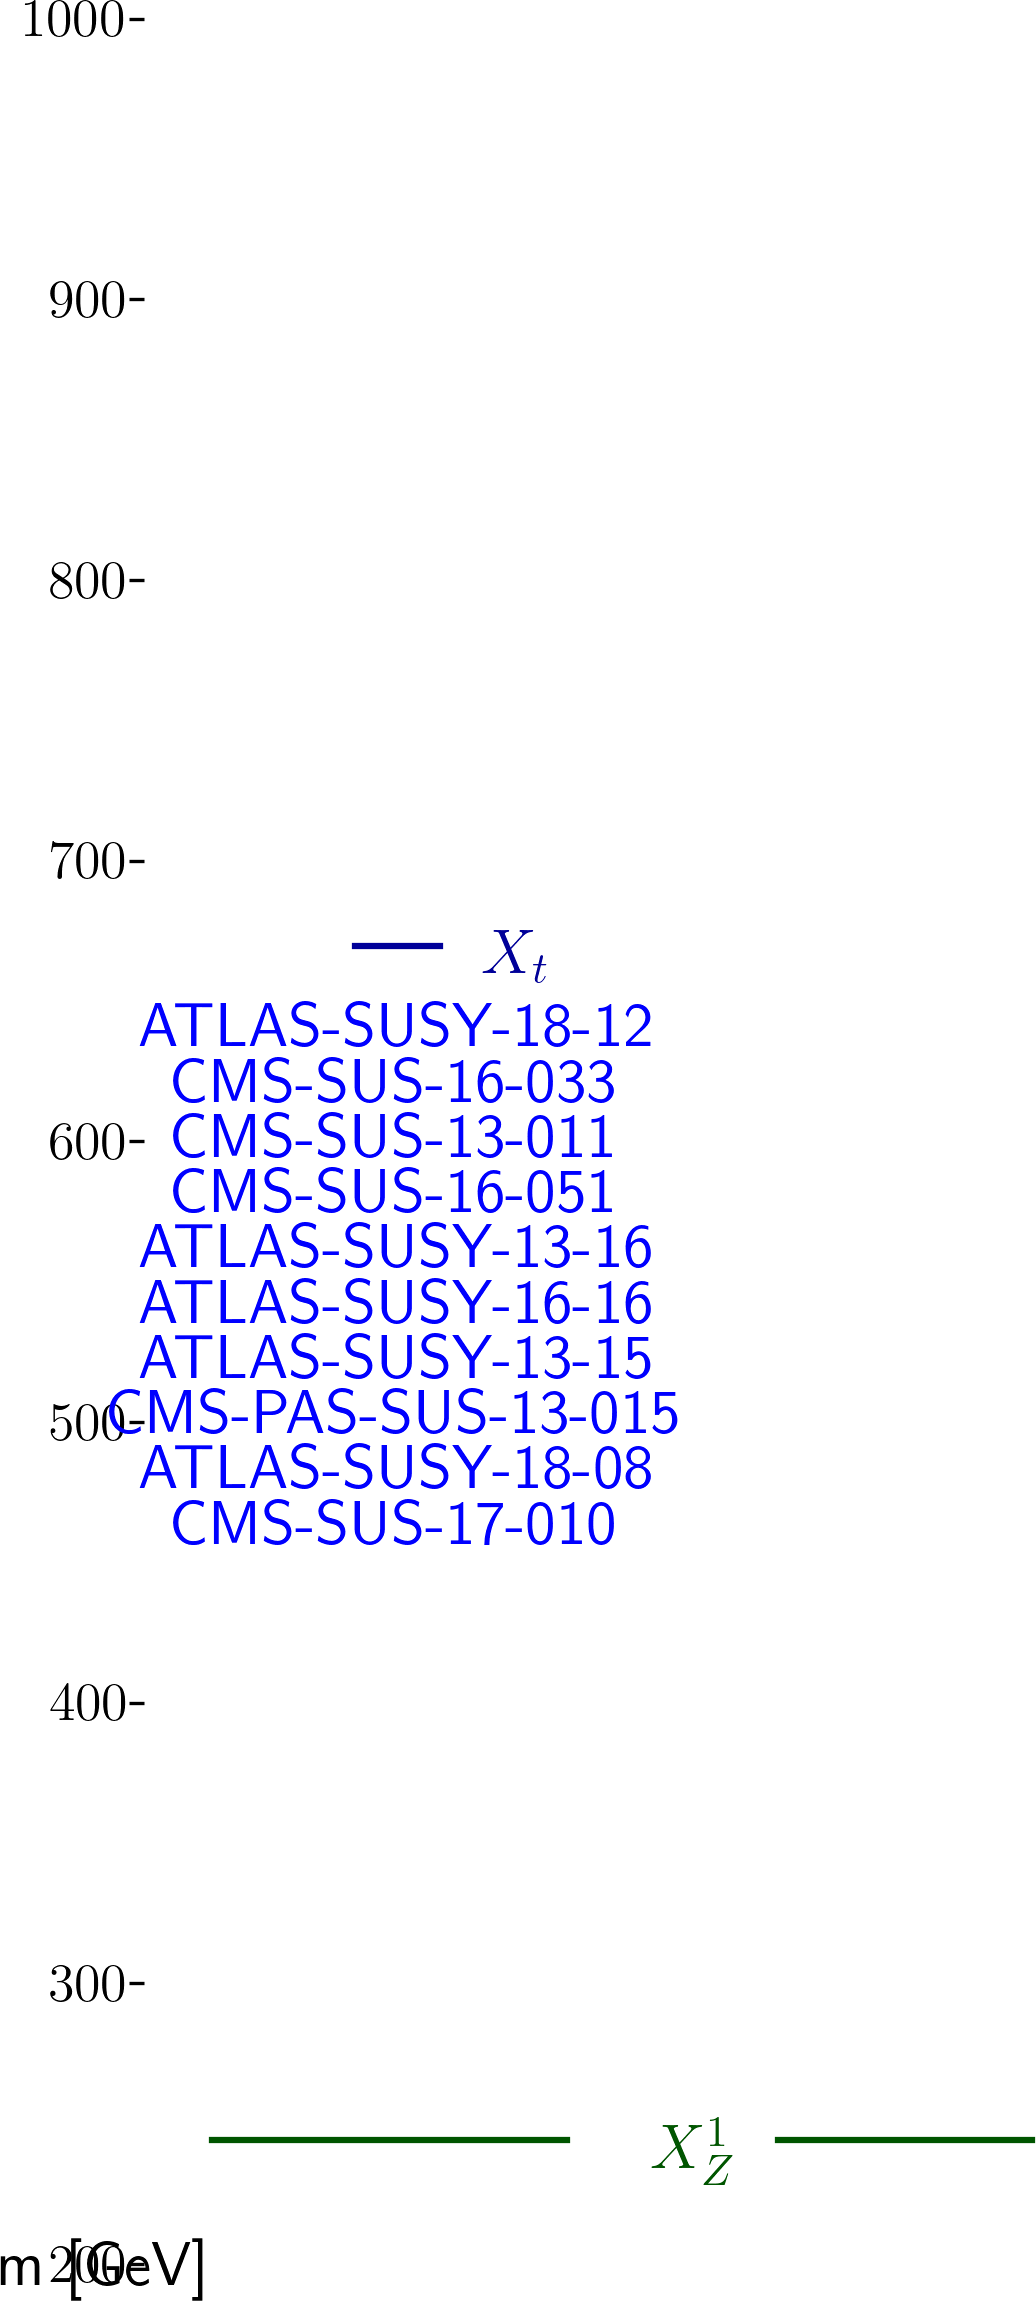
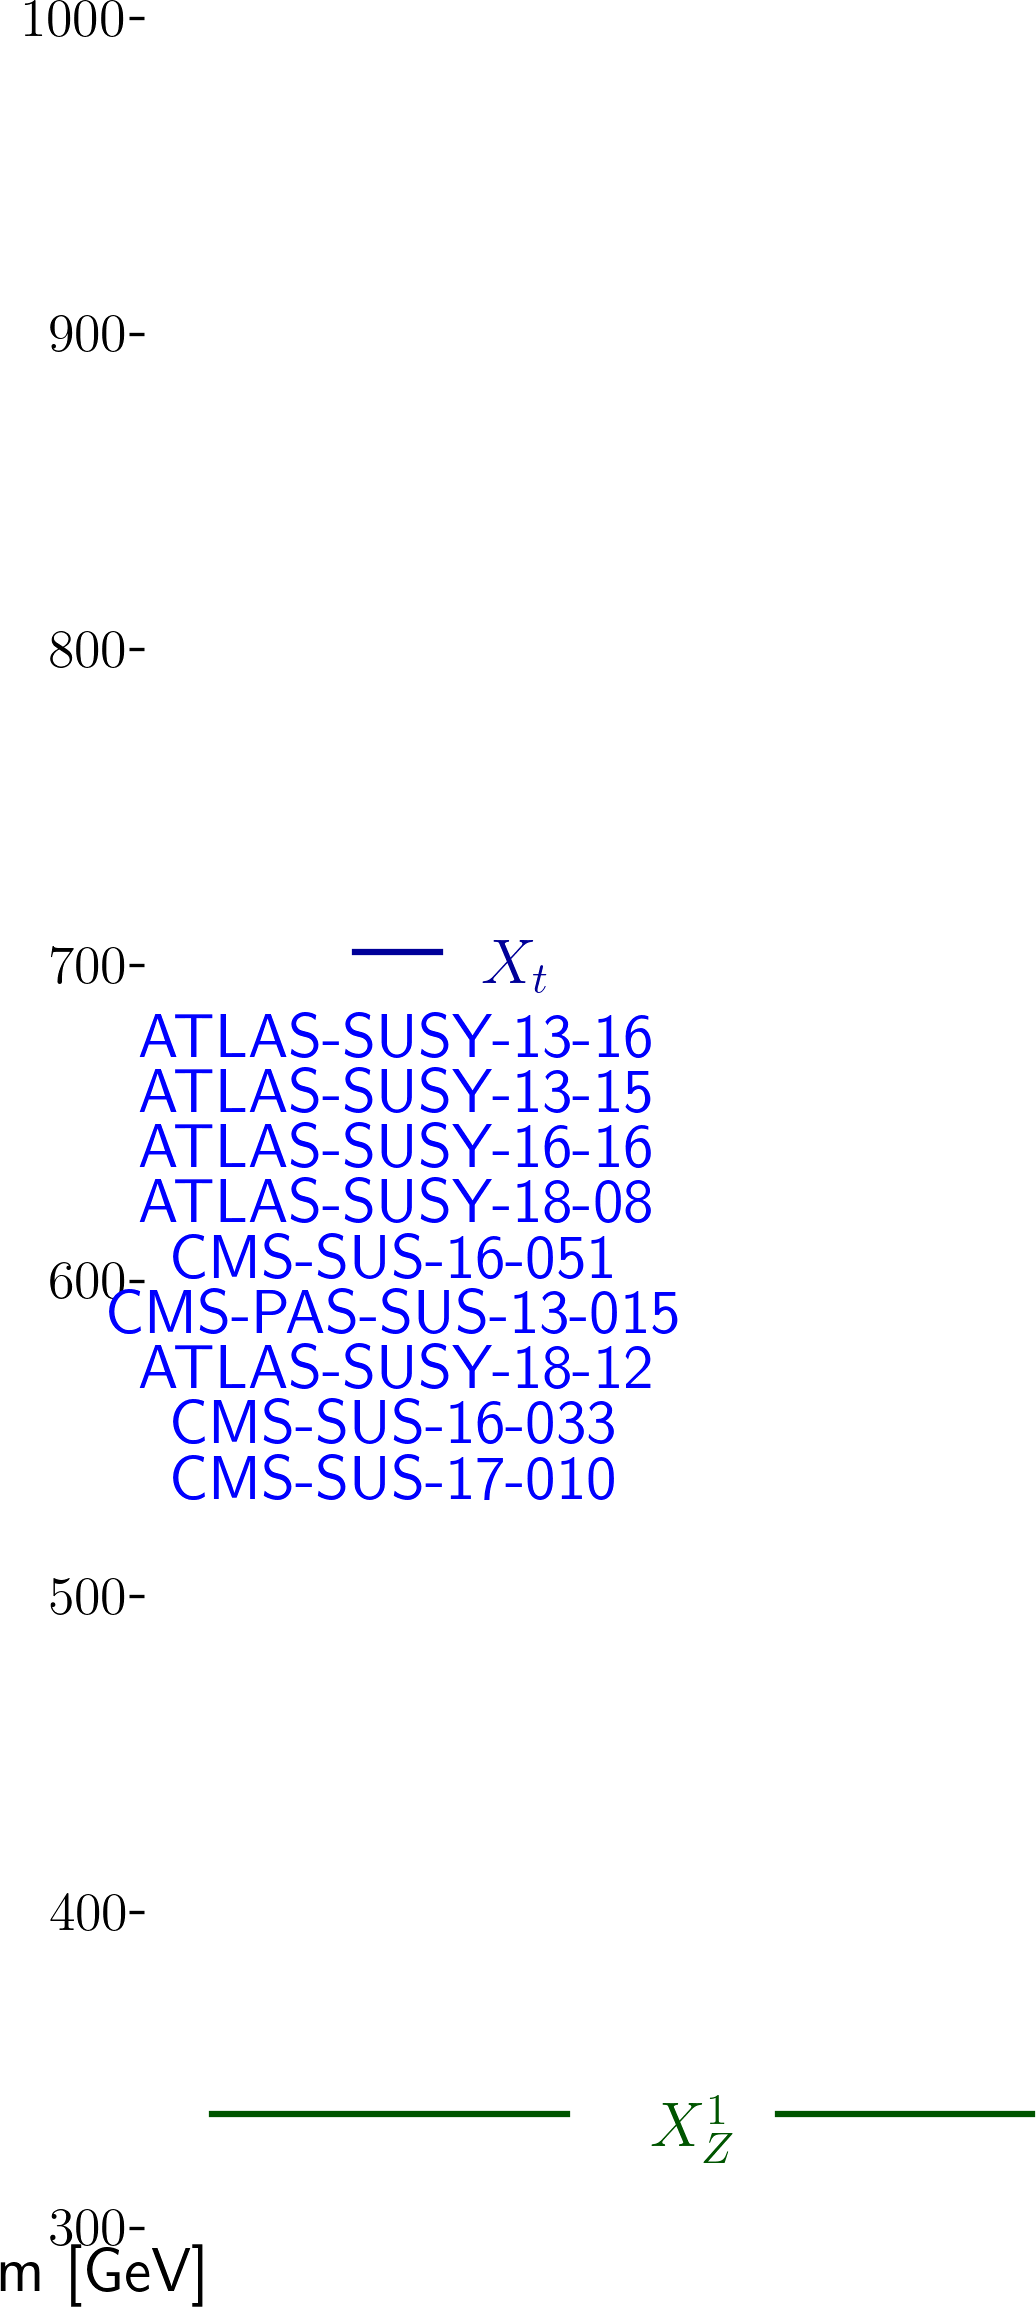
370

diff --git a/protomodels/ewkinos_230/index.html b/protomodels/ewkinos_230/index.html
@@ -1,35 +1,34 @@
 <html>
 <body>
 <center>
-<table><td><h1>Current best protomodel: <i>K</i>=3.38, <i>Z</i>=2.37</h1><td><img height=60px src=https://smodels.github.io//protomodels/logos/protomodel_lego.png></table>
+<table><td><h1>Current best protomodel: <i>K</i>=3.70, <i>Z</i>=2.44</h1><td><img height=60px src=https://smodels.github.io//protomodels/logos/protomodel_lego.png></table>
 </center>
-<b><a href=./hiscore.slha>ProtoModel</a> <a href=./pmodel.py>(dict)</a> produced with <a href=https://smodels.github.io//docs/Validation230>database v2.3.0</a>, combination strategy <a href=./matrix.png>aggressive</a> in walker 5 step 3.</b>  SSM plots for: <a href=./ssm_-1000006_1000006.png?112584977>(x&#772;<sub>t</sub>,X<sub>t</sub>)</a><br>
+<b><a href=./hiscore.slha>ProtoModel</a> <a href=./pmodel.py>(dict)</a> produced with <a href=https://smodels.github.io//docs/Validation230>database v2.3.0</a>, combination strategy <a href=./matrix.png>aggressive</a> in walker 2 step 21.</b>  SSM plots for: <a href=./ssm_-1000006_1000006.png?112674540>(x&#772;<sub>t</sub>,X<sub>t</sub>)</a><br>
 <table width=80%>
 <tr><td>
-<br><b>36 predictions available. Highest r values are:</b><br><ul>
-<li><a href=http://cms-results.web.cern.ch/cms-results/public-results/publications/SUS-20-002/index.html>CMS-SUS-20-002</a>:T2tt r=1.31, r<sub>exp</sub>=1.24<br>
-<li><a href=http://cms-results.web.cern.ch/cms-results/public-results/publications/SUS-19-009/index.html>CMS-SUS-19-009</a>:T2tt r=0.92, r<sub>exp</sub>=0.82<br>
-<li><a href=http://cms-results.web.cern.ch/cms-results/public-results/publications/SUS-19-010/index.html>CMS-SUS-19-010</a>:T2tt r=0.89, r<sub>exp</sub>=0.92<br>
-<li><a href=http://cms-results.web.cern.ch/cms-results/public-results/publications/SUS-19-006/index.html>CMS-SUS-19-006-agg</a>:T2tt r=0.82, r<sub>exp</sub>=0.41<br>
-<li><a href=http://cms-results.web.cern.ch/cms-results/public-results/publications/SUS-19-006/index.html>CMS-SUS-19-006</a>:T2tt r=0.76, r<sub>exp</sub>=0.43<br>
+<br><b>33 predictions available. Highest r values are:</b><br><ul>
+<li><a href=http://cms-results.web.cern.ch/cms-results/public-results/publications/SUS-20-002/index.html>CMS-SUS-20-002</a>:T2tt r=1.31, r<sub>exp</sub>=1.18<br>
+<li><a href=http://cms-results.web.cern.ch/cms-results/public-results/publications/SUS-19-010/index.html>CMS-SUS-19-010</a>:T2tt r=0.98, r<sub>exp</sub>=0.92<br>
+<li><a href=http://cms-results.web.cern.ch/cms-results/public-results/publications/SUS-19-009/index.html>CMS-SUS-19-009</a>:T2tt r=0.84, r<sub>exp</sub>=0.81<br>
+<li><a href=http://cms-results.web.cern.ch/cms-results/public-results/publications/SUS-19-006/index.html>CMS-SUS-19-006-agg</a>:T2tt r=0.75, r<sub>exp</sub>=0.43<br>
+<li><a href=http://cms-results.web.cern.ch/cms-results/public-results/publications/SUS-19-006/index.html>CMS-SUS-19-006</a>:T2tt r=0.74, r<sub>exp</sub>=0.47<br>
 </ul>
 <td><br><b>contributions to K:</b><br>
 <ul>
-<li> <a href=https://twiki.cern.ch/twiki/bin/view/CMSPublic/PhysicsResultsSUS13011>CMS-SUS-13-011</a>: 6.81 (14%)
-<li> <a href=http://cms-results.web.cern.ch/cms-results/public-results/publications/SUS-17-010>CMS-SUS-17-010</a>: 6.78 (14%)
-<li> <a href=http://cms-results.web.cern.ch/cms-results/public-results/publications/SUS-16-051/index.html>CMS-SUS-16-051</a>: 6.78 (14%)
-<li> <a href=http://cms-results.web.cern.ch/cms-results/public-results/publications/SUS-16-033/index.html>CMS-SUS-16-033</a>: 6.71 (13%)
-<li> <a href=https://twiki.cern.ch/twiki/bin/view/CMSPublic/PhysicsResultsSUS13015>CMS-PAS-SUS-13-015</a>: 6.50 (12%)
-<li> <a href=https://atlas.web.cern.ch/Atlas/GROUPS/PHYSICS/PAPERS/SUSY-2013-16/>ATLAS-SUSY-2013-16</a>: 6.24 (11%)
-<li> <a href=https://atlas.web.cern.ch/Atlas/GROUPS/PHYSICS/PAPERS/SUSY-2013-15/>ATLAS-SUSY-2013-15</a>: 6.18 (11%)
-<li> <a href=https://atlas.web.cern.ch/Atlas/GROUPS/PHYSICS/PAPERS/SUSY-2018-08/>ATLAS-SUSY-2018-08</a>: 5.26 (7%)
-<li> <a href=https://atlas.web.cern.ch/Atlas/GROUPS/PHYSICS/PAPERS/SUSY-2016-16/>ATLAS-SUSY-2016-16</a>: 4.92 (6%)
-<li> <a href=https://atlas.web.cern.ch/Atlas/GROUPS/PHYSICS/PAPERS/SUSY-2018-12/>ATLAS-SUSY-2018-12</a>: 2.73 (-3%)
-<td><img width=600px src=./texdoc.png?1705584977>
-<br><font size=-1>Last updated: Thu Jan 18 14:36:17 2024</font>
+<li> <a href=http://cms-results.web.cern.ch/cms-results/public-results/publications/SUS-17-010>CMS-SUS-17-010</a>: 6.90 (16%)
+<li> <a href=http://cms-results.web.cern.ch/cms-results/public-results/publications/SUS-16-051/index.html>CMS-SUS-16-051</a>: 6.90 (16%)
+<li> <a href=http://cms-results.web.cern.ch/cms-results/public-results/publications/SUS-16-033/index.html>CMS-SUS-16-033</a>: 6.86 (16%)
+<li> <a href=https://twiki.cern.ch/twiki/bin/view/CMSPublic/PhysicsResultsSUS13015>CMS-PAS-SUS-13-015</a>: 6.65 (15%)
+<li> <a href=https://atlas.web.cern.ch/Atlas/GROUPS/PHYSICS/PAPERS/SUSY-2013-16/>ATLAS-SUSY-2013-16</a>: 6.41 (14%)
+<li> <a href=https://atlas.web.cern.ch/Atlas/GROUPS/PHYSICS/PAPERS/SUSY-2013-15/>ATLAS-SUSY-2013-15</a>: 6.38 (14%)
+<li> <a href=https://atlas.web.cern.ch/Atlas/GROUPS/PHYSICS/PAPERS/SUSY-2018-08/>ATLAS-SUSY-2018-08</a>: 5.15 (7%)
+<li> <a href=https://atlas.web.cern.ch/Atlas/GROUPS/PHYSICS/PAPERS/SUSY-2016-16/>ATLAS-SUSY-2016-16</a>: 4.94 (6%)
+<li> <a href=https://atlas.web.cern.ch/Atlas/GROUPS/PHYSICS/PAPERS/SUSY-2018-12/>ATLAS-SUSY-2018-12</a>: 2.89 (-4%)
+<td><img width=600px src=./texdoc.png?1705674540>
+<br><font size=-1>Last updated: Fri Jan 19 15:29:00 2024</font>
 </table><table style="width:80%">
-<td width=45%><img height=580px src=./ruler.png?1705584977><td width=55%><img height=340px src=./decays.png?1705584977>
-<font size=-3><iframe type="text/html" height="270px" width="100%s" frameborder="0" src="./rawnumbers.html?1705584977"></iframe></font>
+<td width=45%><img height=580px src=./ruler.png?1705674540><td width=55%><img height=340px src=./decays.png?1705674540>
+<font size=-3><iframe type="text/html" height="270px" width="100%s" frameborder="0" src="./rawnumbers.html?1705674540"></iframe></font>
 </table>
 </body>
 </html>

diff --git a/protomodels/ewkinos_230/rawnumbers.html b/protomodels/ewkinos_230/rawnumbers.html
@@ -7,8 +7,7 @@
 <tr><td><a href=https://atlas.web.cern.ch/Atlas/GROUPS/PHYSICS/PAPERS/SUSY-2018-08/>ATLAS-SUSY-2018-08</a></td><td>em</td> <td>SRSF140</td><td>T2tt</td><td>9</td><td>5.1 +/- 0.9</td><td style="text-align:right">1.6 &sigma;</td><td style="text-align:right">X<sub>t</sub></td></tr>
 <tr><td><a href=https://atlas.web.cern.ch/Atlas/GROUPS/PHYSICS/PAPERS/SUSY-2018-12/>ATLAS-SUSY-2018-12</a></td><td>em</td> <td>SRBTT</td><td>T2tt</td><td>67</td><td>46 +/- 7</td><td style="text-align:right">2.2 &sigma;</td><td style="text-align:right">X<sub>t</sub></td></tr>
 <tr><td><a href=https://twiki.cern.ch/twiki/bin/view/CMSPublic/PhysicsResultsSUS13015>CMS-PAS-SUS-13-015</a></td><td>em</td> <td>pTmiss350_Nb2</td><td>T2tt</td><td>15</td><td>8.6 +/- 7.1</td><td style="text-align:right">0.8 &sigma;</td><td style="text-align:right">X<sub>t</sub></td></tr>
-<tr><td><a href=https://twiki.cern.ch/twiki/bin/view/CMSPublic/PhysicsResultsSUS13011>CMS-SUS-13-011</a></td><td>em</td> <td>LM150</td><td>T2tt</td><td>227</td><td>251 +/- 50</td><td style="text-align:right">-0.5 &sigma;</td><td style="text-align:right">X<sub>t</sub></td></tr>
 <tr><td><a href=http://cms-results.web.cern.ch/cms-results/public-results/publications/SUS-16-033/index.html>CMS-SUS-16-033</a></td><td>em</td> <td>SR2_Njet3_Nb0_H ...</td><td>T2tt</td><td>71</td><td>55.2 +/- 11.5</td><td style="text-align:right">1.2 &sigma;</td><td style="text-align:right">X<sub>t</sub></td></tr>
-<tr><td><a href=http://cms-results.web.cern.ch/cms-results/public-results/publications/SUS-16-051/index.html>CMS-SUS-16-051</a></td><td>ul</td> <td>-</td><td>T2tt</td><td> 23.3 fb </td><td> 26.1 fb</td><td style="text-align:right">-0.2 &sigma;</td><td style="text-align:right">X<sub>t</sub></td></tr>
-<tr><td><a href=http://cms-results.web.cern.ch/cms-results/public-results/publications/SUS-17-010>CMS-SUS-17-010</a></td><td>ul</td> <td>-</td><td>T2tt</td><td> 89.7 fb </td><td> 96.6 fb</td><td style="text-align:right">-0.1 &sigma;</td><td style="text-align:right">X<sub>t</sub></td></tr>
+<tr><td><a href=http://cms-results.web.cern.ch/cms-results/public-results/publications/SUS-16-051/index.html>CMS-SUS-16-051</a></td><td>ul</td> <td>-</td><td>T2tt</td><td> 30.8 fb </td><td> 34.1 fb</td><td style="text-align:right">-0.2 &sigma;</td><td style="text-align:right">X<sub>t</sub></td></tr>
+<tr><td><a href=http://cms-results.web.cern.ch/cms-results/public-results/publications/SUS-17-010>CMS-SUS-17-010</a></td><td>ul</td> <td>-</td><td>T2tt</td><td> 85.2 fb </td><td> 98.9 fb</td><td style="text-align:right">-0.3 &sigma;</td><td style="text-align:right">X<sub>t</sub></td></tr>
 </table>

diff --git a/protomodels/ewkinos_230/pmodel.py b/protomodels/ewkinos_230/pmodel.py
@@ -1,1 +1,1 @@
-{'masses': {1000022: 234.051, 1000006: 659.681}, 'ssmultipliers': {(1000022, 1000022): 0.1, (1000006, 1000006): 0.1, (-1000006, 1000006): 0.1, (-1000006, -1000006): 0.1, (1000006, 1000022): 0.1, (-1000006, 1000022): 0.1}, 'decays': {1000022: {}, 1000006: {(1000022, 6): 1.0}}, 'timestamp': 'Thu Jan 18 14:35:29 2024', 'Z': 2.373, 'K': 3.379, 'walkerid': 5, 'step': 3, 'codever': '2.0', 'dbver': '2.3.0'}
+{'masses': {1000022: 325.977, 1000006: 694.023}, 'ssmultipliers': {(1000022, 1000022): 0.156, (1000006, 1000006): 0.174, (-1000006, 1000006): 0.174, (-1000006, -1000006): 0.174, (1000006, 1000022): 0.174, (-1000006, 1000022): 0.174}, 'decays': {1000022: {}, 1000006: {(1000022, 6): 1.0}}, 'timestamp': 'Fri Jan 19 15:28:34 2024', 'Z': 2.439, 'K': 3.7, 'walkerid': 2, 'step': 21, 'codever': '2.0', 'dbver': '2.3.0'}
